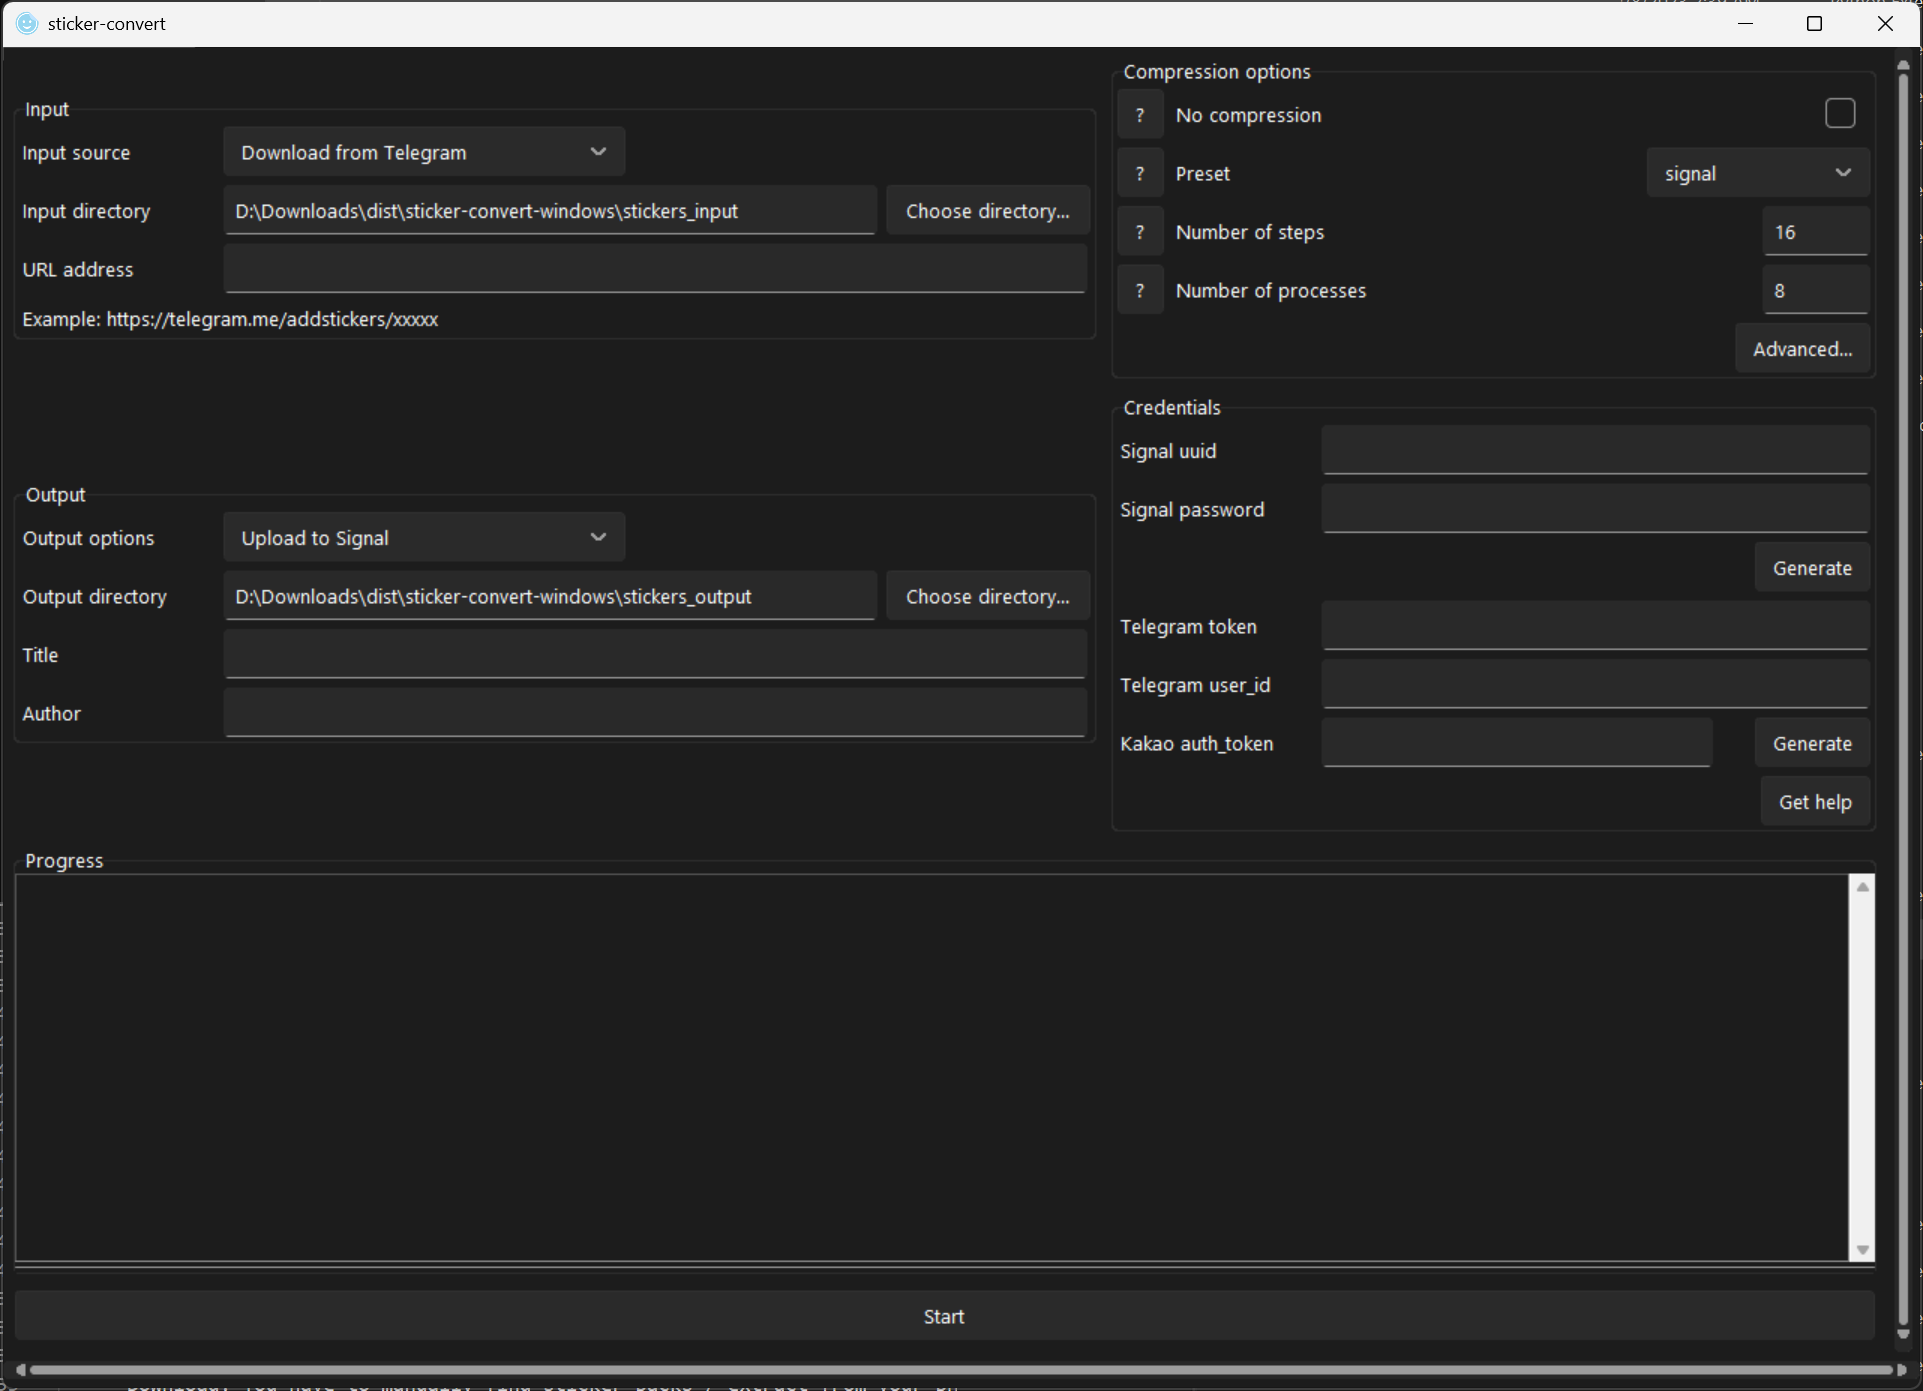
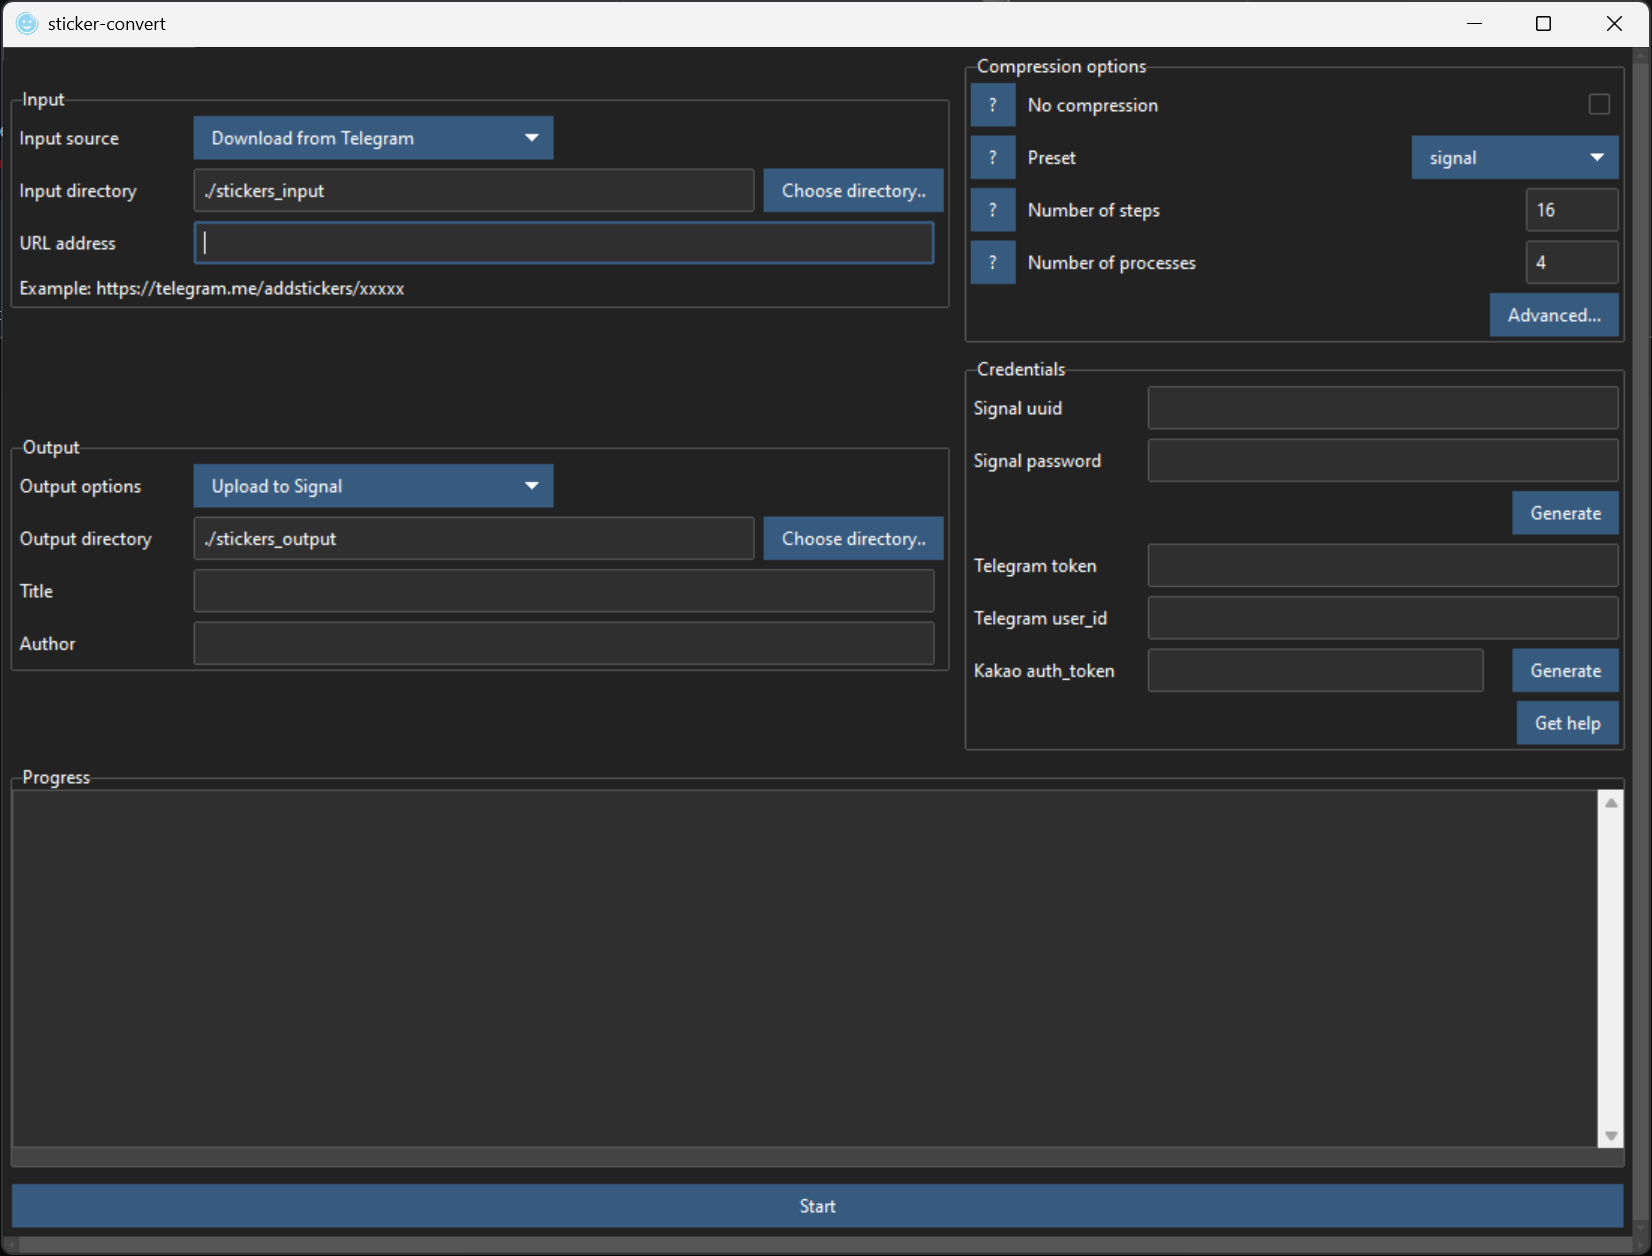
- Change tkinter theme to ttkbootstrap, eliminate need to use MS fonts - Allow signal-desktop-beta to launch in docker image - Docker image now uses Debian - Combine Docker CLI and GUI image

diff --git a/sticker_convert/utils/get_signal_auth.py b/sticker_convert/utils/get_signal_auth.py
@@ -35,7 +35,6 @@ class SignalDesktopManager:
         self.cb_input = cb_input
 
     def download_signal_desktop(self, download_url, signal_bin_path):
-        print(download_url)
         webbrowser.open(download_url)
 
         if self.cb_input == input:
@@ -47,15 +46,17 @@ class SignalDesktopManager:
             self.cb_input(f'Signal Desktop not detected.\nDownload and install Signal Desktop from {download_url}\nAfter installation, quit Signal Desktop and press {prompt}')
 
     def get_signal_chromedriver_version(self, electron_bin_path):
-        if sys.platform == 'win32':
-            for s in strings(electron_bin_path):
-                if 'Chrome/' in s and ' Electron/' in s:
-                    return s.replace('Chrome/', '').split('.', 1)[0]
-        else:
+        if RunBin.get_bin('strings'):
             output_str = RunBin.run_cmd(cmd_list=['strings', electron_bin_path], silence=True)
-            for s in output_str.split('\n'):
-                if 'Chrome/' in s and ' Electron/' in s:
-                    return s.replace('Chrome/', '').split('.', 1)[0]
+            ss = output_str.split('\n')
+        else:
+            ss = strings(electron_bin_path)
+
+        for s in ss:
+            if 'Chrome/' in s and ' Electron/' in s:
+                major_version = s.replace('Chrome/', '').split('.', 1)[0]
+                if major_version.isnumeric():
+                    return major_version
     
     def get_local_chromedriver(self, chromedriver_download_dir):
         local_chromedriver_version = None
@@ -101,15 +102,16 @@ class SignalDesktopManager:
             chromedriver_name = 'chromedriver.exe'
         else:
             chromedriver_name = 'chromedriver'
-            st = os.stat(chromedriver_name)
-            os.chmod(chromedriver_name, st.st_mode | stat.S_IEXEC)
         
-        return os.path.abspath(os.path.join(chromedriver_download_dir, chromedriver_name))
+        chromedriver_path = os.path.abspath(os.path.join(chromedriver_download_dir, chromedriver_name))
+        if not sys.platform == 'win32':
+            st = os.stat(chromedriver_path)
+            os.chmod(chromedriver_path, st.st_mode | stat.S_IEXEC)
+        
+        return chromedriver_path
     
     def killall_signal(self):
         if sys.platform == 'win32':
-            RunBin.run_cmd(cmd_list=['taskkill', '/F', '/im', 'Signal.exe'], silence=True)
-            RunBin.run_cmd(cmd_list=['taskkill', '/F', '/im', r'Signal Beta.exe'], silence=True)
             os.system('taskkill /F /im "Signal.exe"')
             os.system('taskkill /F /im "Signal Beta.exe"')
         else:
@@ -120,6 +122,7 @@ class SignalDesktopManager:
         options = webdriver.ChromeOptions()
         options.binary_location = signal_bin_path
         options.add_argument(f"user-data-dir={signal_user_data_dir}")
+        options.add_argument('no-sandbox')
 
         self.driver = webdriver.Chrome(options=options, executable_path=chromedriver_path)
 
@@ -178,6 +181,8 @@ class SignalDesktopManager:
 
         if not (os.path.isfile(signal_bin_path) or shutil.which(signal_bin_path)):
             self.download_signal_desktop(signal_download_url, signal_bin_path)
+        
+        electron_bin_path = shutil.which(electron_bin_path) if not os.path.isfile(electron_bin_path) else electron_bin_path
         
         signal_bin_path = signal_bin_path if not shutil.which(signal_bin_path) else shutil.which(signal_bin_path)
         

diff --git a/sticker_convert/gui.py b/sticker_convert/gui.py
@@ -1,6 +1,6 @@
 #!/usr/bin/env python3
 from tkinter import Tk, StringVar, BooleanVar, IntVar, filedialog, messagebox, simpledialog, scrolledtext, Toplevel, Canvas, PhotoImage
-from tkinter.ttk import LabelFrame, Frame, OptionMenu, Button, Progressbar, Entry, Label, Checkbutton, Scrollbar
+from ttkbootstrap import LabelFrame, Frame, OptionMenu, Button, Progressbar, Entry, Label, Checkbutton, Scrollbar, Style
 import os
 import sys
 import multiprocessing
@@ -26,10 +26,8 @@ class GUI:
         self.emoji_font = ImageFont.truetype("./resources/NotoColorEmoji.ttf", 109)
 
         self.root = Tk()
+        self.style = Style('darkly').get_instance()
         
-        self.root.tk.call("source", "./Sun-Valley-ttk-theme/sun-valley.tcl")
-        self.root.tk.call("set_theme", "dark")
-        # self.root.eval('tk::PlaceWindow . center')
         if sys.platform == 'darwin':
             self.root.iconbitmap('resources/appicon.icns')
         elif sys.platform == 'win32':
@@ -184,7 +182,26 @@ class GUI:
             messagebox.showerror(title='sticker-convert', message='Warning: json(s) under "resources" directory cannot be found')
             sys.exit()
         
-        self.creds = JsonManager.load_json('creds.json')
+        if os.path.isfile('creds.json'):
+            self.creds = JsonManager.load_json('creds.json')
+        else:
+            self.creds = {
+            'signal': {
+                'uuid': '',
+                'password': ''
+            },
+            'telegram': {
+                'token': '',
+                'userid': ''
+            },
+            'kakao': {
+                'auth_token': '',
+                'username': '',
+                'password': '',
+                'country_code': '',
+                'phone_number': ''
+            }
+        }
         
     def save_creds(self):
         creds = {

diff --git a/README.md b/README.md
@@ -15,8 +15,7 @@
 - [Compatibility](#compatibility)
 - [How to use (GUI)](#how-to-use-gui)
 - [How to use (CLI)](#how-to-use-cli)
-- [How to use (Docker CLI version)](#how-to-use-docker-cli-version)
-- [How to use (Docker GUI version)](#how-to-use-docker-gui-version)
+- [How to use (Docker)](#how-to-use-docker)
 - [Running python script directly & Compiling](#running-python-script-directly--compiling)
 - [FAQ](#faq)
     - [Getting signal uuid and password](#getting-signal-uuid-and-password)
@@ -233,11 +232,26 @@ Convert local files to a custom format
 
 `sticker-convert --fps-min 3 --fps-max 30 --quality-min 30 --quality-max 90 --res-min 512 --res-max 512 --steps 10 --vid-size-max 500000 --img-size-max 500000 --vid-format .apng --img-format .png`
 
-## How to use (Docker CLI version)
+## How to use (Docker)
+![imgs/screenshot-docker-gui.png](imgs/screenshot-docker-gui.png)
 
-Running
+Downloading
 ```
 docker pull laggykiller/sticker-convert:latest
+```
+
+Running (GUI)
+```
+docker run -d -it --name sticker-convert \
+    -v /path/to/your/stickers_input:/app/stickers_input \
+    -v /path/to/your/stickers_output:/app/stickers_output \
+    -p 5800:5800 \ # Port for Web UI
+    -p 5900:5900 \ # Optional for VNC
+    laggykiller/sticker-convert:latest
+```
+
+Running (CLI)
+```
 docker run -d -it --name sticker-convert \
     -v /path/to/your/stickers_input:/app/stickers_input \
     -v /path/to/your/stickers_output:/app/stickers_output \
@@ -245,41 +259,19 @@ docker run -d -it --name sticker-convert \
     python3 /app/main.py --help
 ```
 
-Alternatively, you may use docker-compose.yml with
+Alternative: Use docker-compose.yml (GUI)
 ```
 docker compose up
+```
+
+Alternative: Use docker-compose.yml (CLI)
+```
+docker compose -f docker-compose-cli.yml up
 ```
 
 Building
 ```
 docker build . -t sticker-convert
-```
-
-## How to use (Docker GUI version)
-![imgs/screenshot-docker-gui.png](imgs/screenshot-docker-gui.png)
-
-
-Running
-```
-docker pull laggykiller/sticker-convert:latest-gui
-docker run -d -it --name sticker-convert-gui \
-    -v /path/to/your/stickers_input:/app/stickers_input \
-    -v /path/to/your/stickers_output:/app/stickers_output \
-    -p 5800:5800 \
-    -p 5900:5900 \
-    laggykiller/sticker-convert:latest-gui
-```
-
-After that, open browser and go to `localhost:5800`. You may also use VNC and go to `localhost:5900`
-
-Alternatively, you may use docker-compose.yml with
-```
-docker compose -f docker-compose-gui.yml up
-```
-
-Building
-```
-docker build -f Dockerfile.gui . -t sticker-convert
 ```
 
 Note that the GUI version is based on https://github.com/jlesage/docker-baseimage-gui. Visit that repo for more information.

diff --git a/COMPILING.md b/COMPILING.md
@@ -123,6 +123,10 @@ For Linux, the following binaries are required:
     - For ubuntu, you may use this ppa repository: https://launchpad.net/~zero-tsuki/+archive/ubuntu/ppa/+packages
 - `zip`
     - Available in many distro's package manager (`sudo apt install zip`)
+- `binutils` (For `strings` command)
+    - Available in many distro's package manager (`sudo apt install binutils`)
+- `psmisc` (For `killall` command)
+    - Available in many distro's package manager (`sudo apt install psmisc`)
 
 Note that Arch Linux have all of the required packages in official repository and AUR.
 

diff --git a/TODO.md b/TODO.md
@@ -1,6 +1,6 @@
 ### Todo
 
-- [ ] Add support for getting Signal uuid and password in docker (May need to switch to debian-based iamge)
+- [ ] If running without display, run signal-desktop with pyvirtualdisplay, read QR code and display on terminal
 - [ ] Add testing
 - [ ] Let user select what to do for stickers that are too long (Skip, fastforward, cut)
 - [ ] Use opencv to replace ffmpeg
